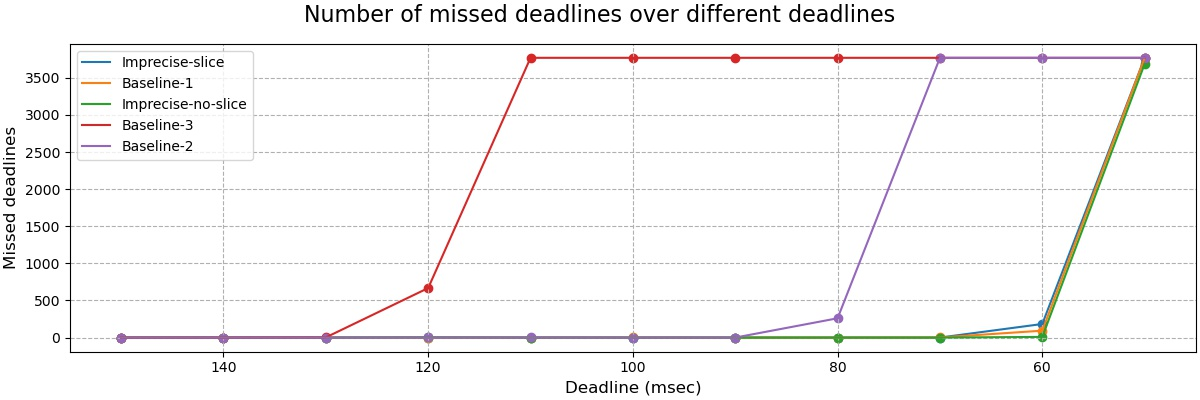
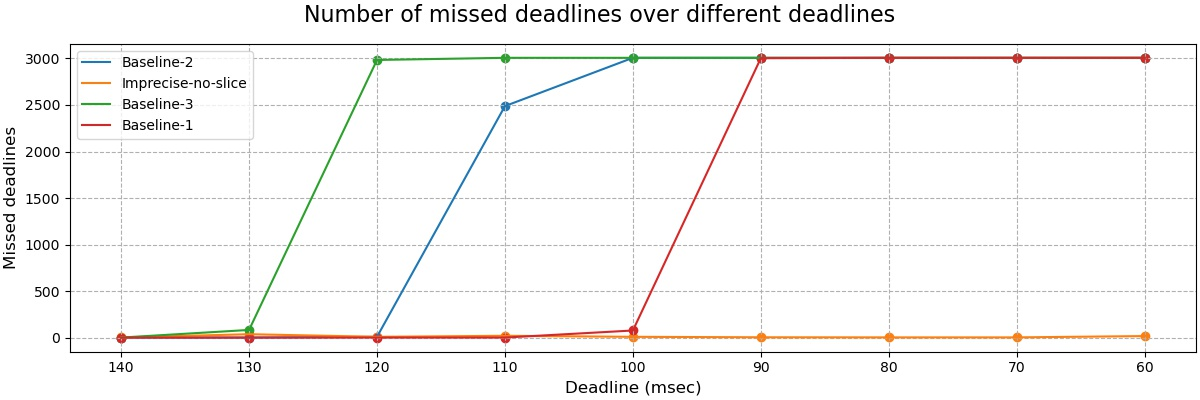
Modified decision algorithm, got the final results.

diff --git a/pcdet/models/detectors/pointpillar_imprecise.py b/pcdet/models/detectors/pointpillar_imprecise.py
@@ -82,8 +82,8 @@ class PointPillarImprecise(Detector3DTemplate):
                     [.4] * 6,
             ]
 
-        #print('Model:')
-        #print(self)
+        print('Model:')
+        print(self)
 
         self.scores_that_zeros_list=[]
         self.total_missed_classes=0
@@ -138,9 +138,6 @@ class PointPillarImprecise(Detector3DTemplate):
         stg_seq=[1]
         data_dict['score_thresh'] = self._score_threshold
         if data_dict['method'] == self.IMPRECISE:
-            self.measure_time_start('Forward-cls')
-            data_dict = self.dense_head.forward_cls_preds(data_dict)
-            self.measure_time_end('Forward-cls')
             self.measure_time_start('Sched')
             data_dict = self.sched_stages_and_heads(data_dict)
             self.measure_time_end('Sched')
@@ -165,7 +162,8 @@ class PointPillarImprecise(Detector3DTemplate):
         self.measure_time_end('RPN-total')
         self.measure_time_start('RPN-finalize')
         #torch.cuda.nvtx.range_push('Head')
-        if num_stgs_to_run > 1:
+        if num_stgs_to_run > 1 or data_dict['heads_to_run'].size()[0] == \
+                len(self.post_sync_time_table_ms[0]):
             data_dict = self.dense_head(data_dict)
         else:
             data_dict = self.dense_head.forward_remaining_preds(data_dict)
@@ -200,6 +198,37 @@ class PointPillarImprecise(Detector3DTemplate):
         return data_dict
 
     def sched_stages_and_heads(self, data_dict):
+        torch.cuda.synchronize()
+
+        self.measure_time_end('Pre-stage-1')
+        self.measure_time_start('Post-stage-1')
+
+        rem_ms = (data_dict['abs_deadline_sec'] - time.time()) * 1000.0
+
+        if self._calibrating_now:
+            selected_cfg = self._cur_calib_tuple
+            #prios = calib_prios
+        else:
+            # Traverse the table and find the config which will meet the
+            # deadline and would give the highest NDS
+            selected_cfg = (1, 1)
+            best_NDS = self.cfg_to_NDS[0][0]
+            for i in range(len(self.post_sync_time_table_ms)):
+                for j in range(len(self.post_sync_time_table_ms[0])):
+                    if self.post_sync_time_table_ms[i][j] <= rem_ms and \
+                            self.cfg_to_NDS[i][j] > best_NDS:
+                        best_NDS = self.cfg_to_NDS[i][j]
+                        selected_cfg = (i+1,j+1)
+
+        if selected_cfg[1] == len(self.post_sync_time_table_ms[0]): # max num heads
+            data_dict['num_stgs_to_run'] = selected_cfg[0]
+            data_dict['heads_to_run'] = torch.arange(selected_cfg[1])
+            return data_dict
+
+        self.measure_time_start('Forward-cls')
+        data_dict = self.dense_head.forward_cls_preds(data_dict)
+        self.measure_time_end('Forward-cls')
+
         stg0_sum = torch.sum(data_dict['spatial_features'], 1, keepdim=True)
         sum_mask = torch.nn.functional.max_pool2d(stg0_sum, 19,
                 stride=4, padding=9).unsqueeze(-1)
@@ -242,9 +271,6 @@ class PointPillarImprecise(Detector3DTemplate):
         cutoff_scores = cutoff_scores.cpu()
         cls_score_sums = [css.cpu() for css in cls_score_sums]
 
-        self.measure_time_end('Pre-stage-1')
-        self.measure_time_start('Post-stage-1')
-
         for i, s in enumerate(cls_score_sums):
             for j, c in enumerate(s):
                 prio_scores[i] += c / self.dense_head.anchor_area_coeffs[i][j]
@@ -255,23 +281,6 @@ class PointPillarImprecise(Detector3DTemplate):
         prios = prio_scores.argsort(descending=True)
         #print('prios', prios)
         #print('gtc  ', data_dict['gt_counts'].argsort(descending=True))
-
-        rem_ms = (data_dict['abs_deadline_sec'] - time.time()) * 1000.0
-
-        if self._calibrating_now:
-            selected_cfg = self._cur_calib_tuple
-            #prios = calib_prios
-        else:
-            # Traverse the table and find the config which will meet the
-            # deadline and would give the highest NDS
-            selected_cfg = (1, 1)
-            best_NDS = self.cfg_to_NDS[0][0]
-            for i in range(len(self.post_sync_time_table_ms)):
-                for j in range(len(self.post_sync_time_table_ms[0])):
-                    if self.post_sync_time_table_ms[i][j] <= rem_ms and \
-                            self.cfg_to_NDS[i][j] > best_NDS:
-                        best_NDS = self.cfg_to_NDS[i][j]
-                        selected_cfg = (i+1,j+1)
 
         data_dict['num_stgs_to_run'] = selected_cfg[0]
         data_dict['heads_to_run'] = prios[:selected_cfg[1]]
@@ -305,7 +314,6 @@ class PointPillarImprecise(Detector3DTemplate):
             print(f'Calibration file {fname} not found, running calibration') 
             calib_dict = self.do_calibration(fname) #, samples)
         # Use 99 percentile Post-stage-1 times
-        #m = np.finfo(np.single).max
         def get_rc(k):
             r,c = k.replace('(', '').replace(')', '').replace(',', '').split()
             r,c = int(r), int(c)

diff --git a/tools/log_plotter.py b/tools/log_plotter.py
@@ -420,7 +420,7 @@ for ax, eval_type in zip(axs, proto_mAP_dict.keys()):
         ax.scatter(x, y, color=l2d[0].get_c())
     ax.invert_xaxis()
     ax.legend(fontsize='medium')
-    ax.set_ylabel(eval_type + ' mAP', fontsize='large')
+    ax.set_ylabel(eval_type, fontsize='large')
     ax.set_xlabel('Deadline (msec)', fontsize='large')
     ax.grid('True', ls='--')
 fig.suptitle("mean Average Precision over different deadlines", fontsize=16)
